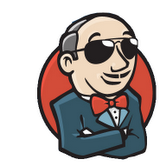
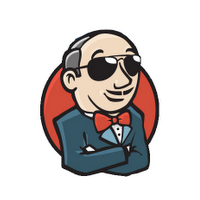
Site updated at 2014-05-07 19:46:03 UTC

diff --git a/2014/05/07/integracao-e-deploy-continuos/index.html b/2014/05/07/integracao-e-deploy-continuos/index.html
@@ -234,7 +234,7 @@ integração contínua, software livre, e em constante evolução),
 <a href="https://trello.com">Trello</a> (organização e gerenciamento dos
 projetos).</p>
 
-<p><img class="alignright" title="Jenkins" src="/posts-assets/images/2014/05/jenkins.png" alt="Jenkins" width="162" height="166" />
+<p><img class="alignright" title="Jenkins" src="/posts-assets/images/2014/05/jenkins.png" alt="Jenkins" width="200" height="200" />
 E como isso tudo se junta? Bem, através do plugin
 <a href="https://wiki.jenkins-ci.org/display/JENKINS/Gitlab+Hook+Plugin">Gitlab Hook</a>
 para o Jenkins, ele ficará escutando em uma determinada URL para receber
